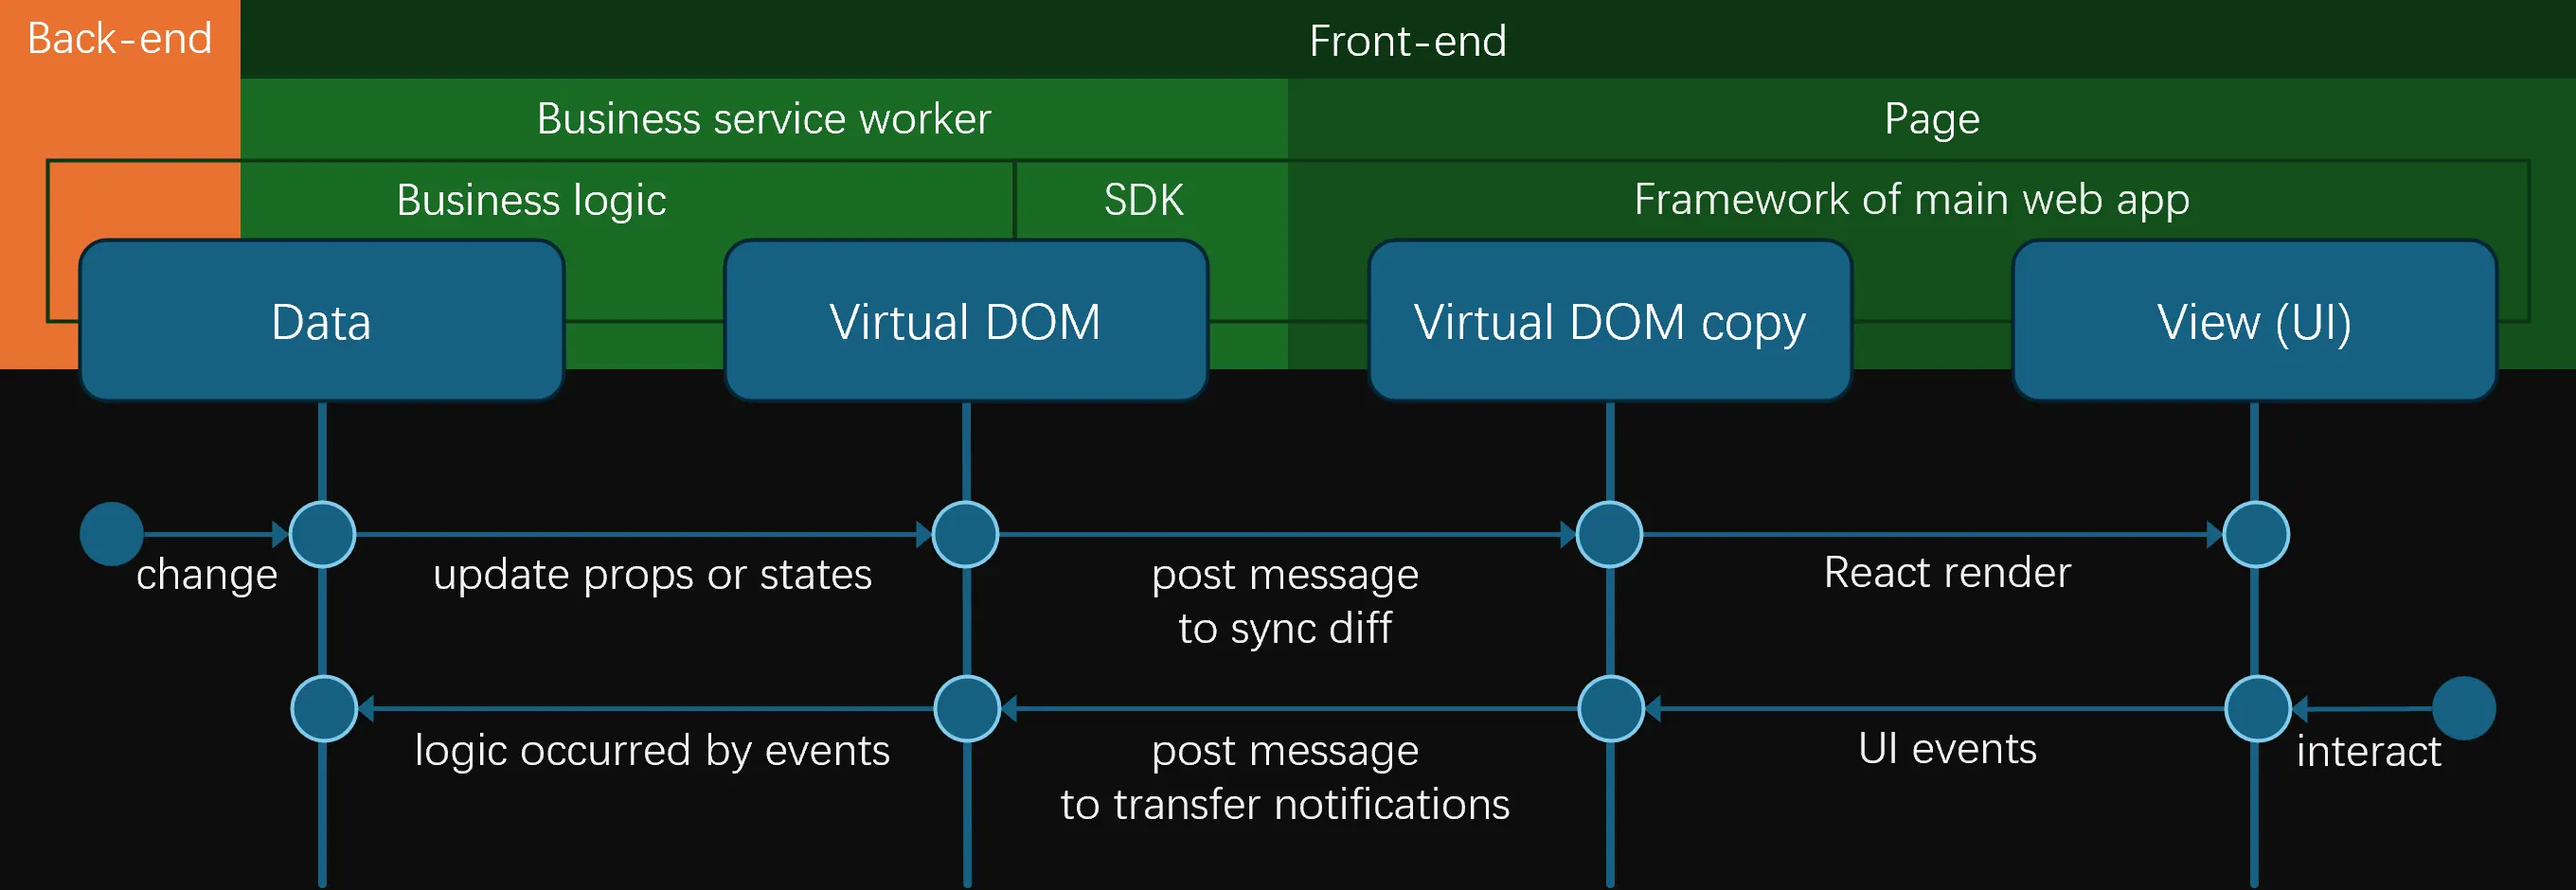
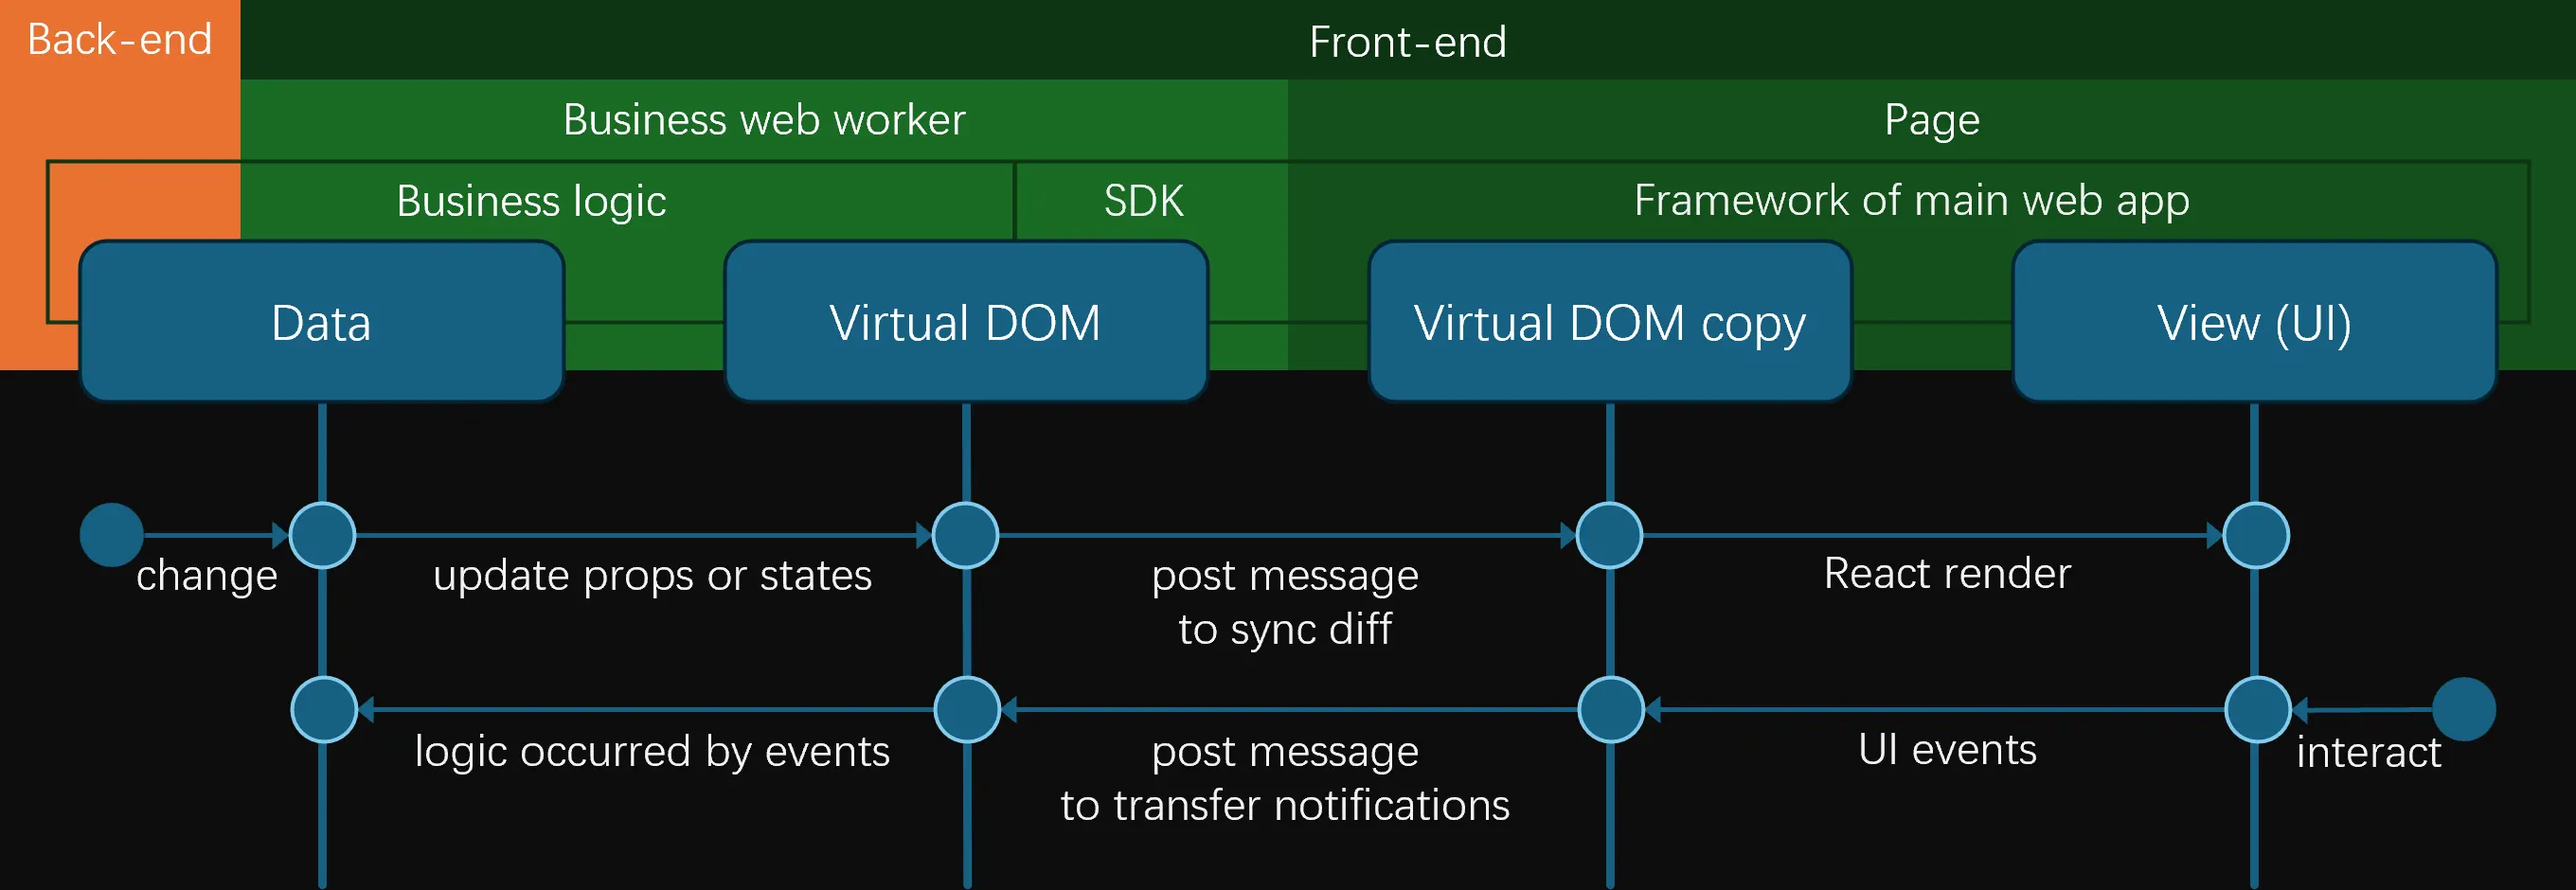
Update blog micro-frontend.

diff --git a/blog/2025/microfe.md b/blog/2025/microfe.md
@@ -156,13 +156,13 @@ In the main web app, you can listen to this event, and within the React componen
 
 This process is similar to the early implementation of the Azure Portal mentioned earlier, except that React replaces Knockout, and the transmitted information changes from view templates and view models to internal change description structure in React. On the business frontend, React no longer needs to render directly on the real `document`; this process is handled by the main web app, while other processes remain unchanged. On the main web app side, state changes triggered by React components are also sent back to the React processing flow in the business frontend through a similar postMessage mechanism. This may eventually trigger the reactive logic within the React components in the business frontend, potentially leading to new renders, which then continue the aforementioned process, rendering within the component corresponding to the business in the main web app.
 
-### Service Worker
+### Web Worker
 
 However, the business frontend no longer needs to be placed inside an `iframe`. In the browser, apart from some interface controls, an `iframe` instance is essentially similar to opening a new tab, containing multiple sets of logic such as JS execution and rendering. Since the business frontend does not require actual rendering in the current process, at the very least, the rendering of the page corresponding to the `iframe`, or the `document` part, is actually unnecessary. In fact, modern browsers provide a mode that allows JS to run independently without a visual interface.
 
-This is the service worker.
+This is web worker.
 
-The information exchange mechanism between the service worker and the main interface still supports the post message format. Therefore, in the previous React model, communication between the business frontend and the main web app can continue to function normally. The business frontend simply resides in the browser as a business worker, in a very pure form. Since the service worker runs in an independent process, it avoids thread-level blocking issues between itself and the main web app process caused by load. From an on-demand loading perspective, creating a service worker is relatively simple and controllable, making micro-frontend package management easier to implement.
+The information exchange mechanism between the web worker and the main interface still supports the post message format. Therefore, in the previous React model, communication between the business frontend and the main web app can continue to function normally. The business frontend simply resides in the browser as a business worker, in a very pure form. Since the web worker runs in an independent process, it avoids thread-level blocking issues between itself and the main web app process caused by load. From an on-demand loading perspective, creating a web worker is relatively simple and controllable, making micro-frontend package management easier to implement.
 
 ![Flow in React](./images/pic-12-mfe-23.webp)
 
@@ -172,7 +172,7 @@ The content transmitted via post message primarily includes the changes in the V
 
 So how should styles be handled? Mature solutions can still be used, such as convention-based namespaces or Shadow DOM.
 
-If Shadow DOM is used, a unified React component can be customized within the main web app and encapsulated into a Shadow DOM. This serves as the root node of the business view slot. The Shadow DOM element and its internal React components receive notifications routed and mapped by the main web app based on the service worker, including the initialization of styles and other information at the start, as well as subsequent React Virtual DOM change events that trigger actual UI layer updates. As a result, the interface rendering part is completely isolated, with its encapsulation and external interaction fully managed by the main web app. Meanwhile, all business logic resides within the Shadow DOM, ensuring no interference with external elements.
+If Shadow DOM is used, a unified React component can be customized within the main web app and encapsulated into a Shadow DOM. This serves as the root node of the business view slot. The Shadow DOM element and its internal React components receive notifications routed and mapped by the main web app based on the web worker, including the initialization of styles and other information at the start, as well as subsequent React Virtual DOM change events that trigger actual UI layer updates. As a result, the interface rendering part is completely isolated, with its encapsulation and external interaction fully managed by the main web app. Meanwhile, all business logic resides within the Shadow DOM, ensuring no interference with external elements.
 
 ### Bring It to Reality
 

diff --git a/blog/2025/weiqianduan.md b/blog/2025/weiqianduan.md
@@ -154,13 +154,13 @@ function NameValueComponent({ name, value }: NameValueComponentProps) {
 
 这个过程和前面提到的早期 Azure Portal 的工作原理类似，只是 Knockout 换成了 React，其内部传递的信息由视图模板和视图模型，变为了 React 内部的变更描述结构体。在业务前端中，React 不再需要在真实 `document` 上进行绘制，该流程被前端主应用执行了，但其它流程保持不变。在前端主应用侧，React 组件所触发的 state 等变动，也以类似机制，通过 post message 的方式传回到业务前端引入的 React 的处理流程中，最终可能会触发业务前端中 React 组件中的响应逻辑部分，并可能进一步触发新的渲染，再继续以前述流程，在前端主应用中该业务对应的组件中渲染。
 
-### Service Worker
+### Web worker
 
 然而，业务前端不再需要放在 `iframe` 中了。浏览器中，除了一些界面控制外，`iframe` 示例本质上和新起了一个网页 Tab 区别不是很大，包含了 JS 执行和渲染等多套逻辑。既然业务前端在当前的进程中无需真实触发渲染，那么至少 `iframe` 中对应的页面渲染，或者说 `document` 部分，其实是不需要的。实际上，现代浏览器也提供了这样一种无界面但能独立运行 JS 的模式。
 
-这就是 service worker。
+这就是 web worker。
 
-其与主界面之间的信息交互机制中，也依然支持 post message 这种形式。因此，前面 React 模式中，业务前端和前端主应用之间的通信依旧能正常工作。只不过，业务前端是以业务 Worker 的形式驻留在浏览器中，非常纯粹。由于 service worker 也是运行于独立进程的，因此与前端主应用所在的进程之间，不会存在因负载原因而互相线程级阻塞对方的现象。从按需加载角度看，创建 service worker 也较为简便和可控，因此微前端包管理也会相对容易实现。
+其与主界面之间的信息交互机制中，也依然支持 post message 这种形式。因此，前面 React 模式中，业务前端和前端主应用之间的通信依旧能正常工作。只不过，业务前端是以业务 Worker 的形式驻留在浏览器中，非常纯粹。由于 web worker 也是运行于独立进程的，因此与前端主应用所在的进程之间，不会存在因负载原因而互相线程级阻塞对方的现象。从按需加载角度看，创建 web worker 也较为简便和可控，因此微前端包管理也会相对容易实现。
 
 ![React 版模式](./images/pic-12-mfe-13.webp)
 
@@ -170,7 +170,7 @@ function NameValueComponent({ name, value }: NameValueComponentProps) {
 
 那么样式如何处理呢？可以继续使用当下成熟的方案，包括约定式命名空间，或者使用 Shadow DOM。
 
-如果使用 Shadow DOM，那么，可以在前端主应用中，定制一个统一的 React 组件，并封装成 Shadow DOM，此即业务视图插槽的根节点。该 Shadow DOM 元素及其内 React 组件，接受经前端主应用收到 service worker 并按业务映射路由后的通知，包括起始时样式等初始化信息的接入并组装，以及后续 React 虚拟 DOM 变更事件的实际 UI 层触发执行。由此，界面渲染部分也都被完整进行了隔离，其隔离的封装及外部交互，均由前端主应用负责实施，而业务部分全都在 Shadow DOM 内部，不会与外部产生干扰。
+如果使用 Shadow DOM，那么，可以在前端主应用中，定制一个统一的 React 组件，并封装成 Shadow DOM，此即业务视图插槽的根节点。该 Shadow DOM 元素及其内 React 组件，接受经前端主应用收到 web worker 并按业务映射路由后的通知，包括起始时样式等初始化信息的接入并组装，以及后续 React 虚拟 DOM 变更事件的实际 UI 层触发执行。由此，界面渲染部分也都被完整进行了隔离，其隔离的封装及外部交互，均由前端主应用负责实施，而业务部分全都在 Shadow DOM 内部，不会与外部产生干扰。
 
 ### 只欠东风
 
